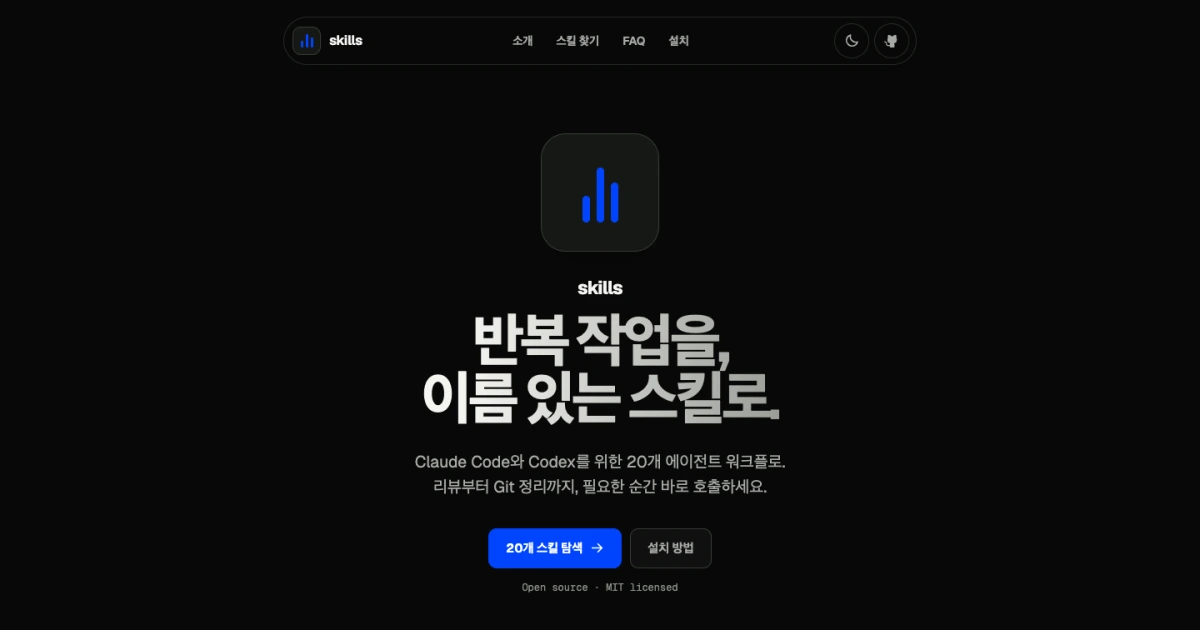
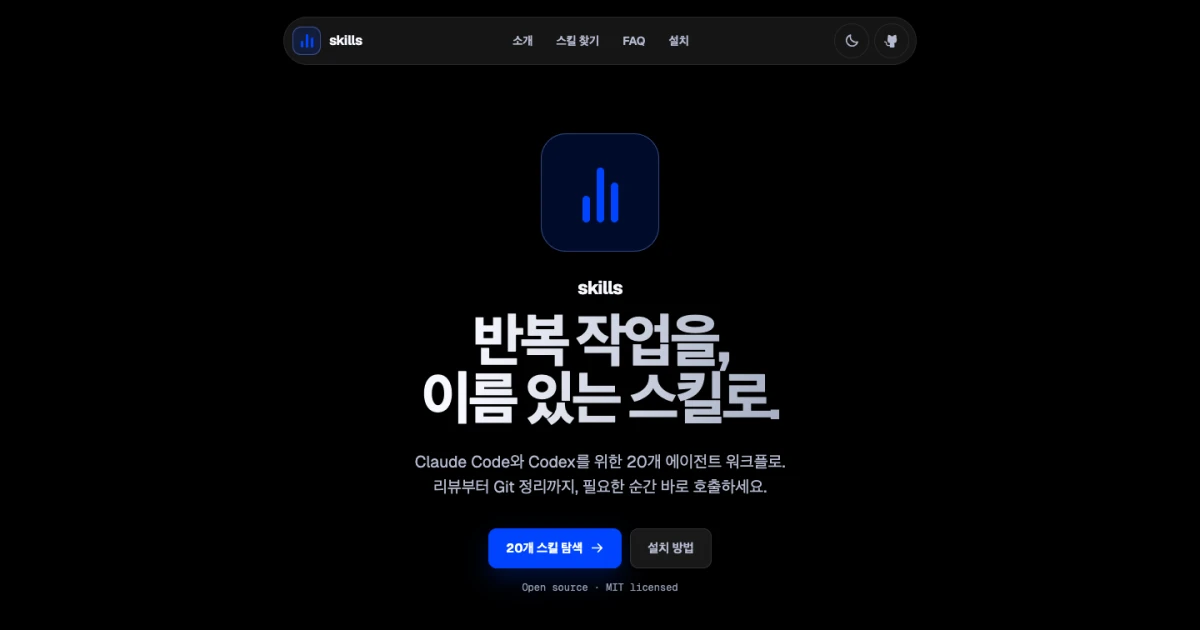
feat(site): rebalance palette and fill footer wordmark

diff --git a/website/src/styles.css b/website/src/styles.css
@@ -1,21 +1,24 @@
 :root {
   color-scheme: dark;
-  --canvas: #080908;
-  --surface: #101110;
-  --surface-raised: #161816;
-  --surface-soft: #0d0e0d;
-  --ink: #f4f5f1;
-  --ink-soft: #a7aaa4;
-  --ink-muted: #898d85;
-  --ink-fade: #9a9d96;
-  --line: #252824;
-  --line-strong: #373b35;
+  --canvas: #000000;
+  --surface: #181818;
+  --surface-raised: #1f1f1f;
+  --surface-soft: #131313;
+  --ink: #f7f8ff;
+  --ink-soft: #b4bad0;
+  --ink-muted: #8f97ad;
+  --ink-fade: #a6afc3;
+  --line: #272727;
+  --line-strong: #313131;
   --accent: #0044ff;
-  --accent-text: #6f93ff;
+  --accent-text: #85a2ff;
   --accent-ink: #ffffff;
+  --accent-soft: rgba(0, 68, 255, 0.16);
+  --accent-line: rgba(112, 143, 255, 0.42);
+  --accent-shadow: rgba(0, 68, 255, 0.24);
   --danger: #f0a39c;
-  --shadow: rgba(0, 0, 0, 0.28);
-  --header-bg: rgba(8, 9, 8, 0.86);
+  --shadow: rgba(0, 0, 0, 0.42);
+  --header-bg: rgba(24, 24, 24, 0.86);
   --max-width: 1200px;
   --ease-out: cubic-bezier(0.16, 1, 0.3, 1);
   font-family: "Geist Variable", ui-sans-serif, system-ui, -apple-system,
@@ -26,43 +29,49 @@
 
 :root[data-theme="light"] {
   color-scheme: light;
-  --canvas: #f7f6f3;
+  --canvas: #f5f7fc;
   --surface: #ffffff;
-  --surface-raised: #eeede8;
-  --surface-soft: #f1f0ec;
-  --ink: #171816;
-  --ink-soft: #5f625c;
-  --ink-muted: #686b65;
-  --ink-fade: #62655e;
-  --line: #deddd7;
-  --line-strong: #c9c8c1;
+  --surface-raised: #edf1fb;
+  --surface-soft: #f1f4fa;
+  --ink: #111827;
+  --ink-soft: #515b70;
+  --ink-muted: #626c82;
+  --ink-fade: #6b7280;
+  --line: #dce3ef;
+  --line-strong: #c4cedf;
   --accent: #0044ff;
   --accent-text: #0044ff;
   --accent-ink: #ffffff;
+  --accent-soft: #e8eeff;
+  --accent-line: #b8c8ff;
+  --accent-shadow: rgba(0, 68, 255, 0.18);
   --danger: #9f4038;
-  --shadow: rgba(30, 32, 29, 0.12);
-  --header-bg: rgba(247, 246, 243, 0.86);
+  --shadow: rgba(25, 47, 92, 0.12);
+  --header-bg: rgba(245, 247, 252, 0.88);
 }
 
 @media (prefers-color-scheme: light) {
   :root[data-theme="system"] {
     color-scheme: light;
-    --canvas: #f7f6f3;
+    --canvas: #f5f7fc;
     --surface: #ffffff;
-    --surface-raised: #eeede8;
-    --surface-soft: #f1f0ec;
-    --ink: #171816;
-    --ink-soft: #5f625c;
-    --ink-muted: #686b65;
-    --ink-fade: #62655e;
-    --line: #deddd7;
-    --line-strong: #c9c8c1;
+    --surface-raised: #edf1fb;
+    --surface-soft: #f1f4fa;
+    --ink: #111827;
+    --ink-soft: #515b70;
+    --ink-muted: #626c82;
+    --ink-fade: #6b7280;
+    --line: #dce3ef;
+    --line-strong: #c4cedf;
     --accent: #0044ff;
     --accent-text: #0044ff;
     --accent-ink: #ffffff;
+    --accent-soft: #e8eeff;
+    --accent-line: #b8c8ff;
+    --accent-shadow: rgba(0, 68, 255, 0.18);
     --danger: #9f4038;
-    --shadow: rgba(30, 32, 29, 0.12);
-    --header-bg: rgba(247, 246, 243, 0.86);
+    --shadow: rgba(25, 47, 92, 0.12);
+    --header-bg: rgba(245, 247, 252, 0.88);
   }
 }
 
@@ -201,9 +210,9 @@ code {
   width: 34px;
   height: 34px;
   padding: 8px;
-  border: 1px solid var(--line-strong);
+  border: 1px solid var(--accent-line);
   border-radius: 10px;
-  background: var(--surface-raised);
+  background: var(--accent-soft);
 }
 
 .brand-mark span {
@@ -268,8 +277,8 @@ code {
 }
 
 .site-header nav a[aria-current="true"] {
-  background: var(--surface-raised);
-  color: var(--ink);
+  background: var(--accent-soft);
+  color: var(--accent-text);
 }
 
 .header-actions {
@@ -360,12 +369,13 @@ code {
   font-size: 15px;
   font-weight: 690;
   transition: background 160ms var(--ease-out), color 160ms var(--ease-out), border-color 160ms var(--ease-out),
-    transform 160ms var(--ease-out);
+    box-shadow 160ms var(--ease-out), transform 160ms var(--ease-out);
 }
 
 .button--primary {
   border-color: var(--accent);
   background: var(--accent);
+  box-shadow: 0 12px 30px var(--accent-shadow);
   color: var(--accent-ink);
 }
 
@@ -500,8 +510,8 @@ code {
 }
 
 .product-sidebar li.is-active {
-  border-color: var(--line-strong);
-  background: var(--surface-raised);
+  border-color: var(--accent-line);
+  background: var(--accent-soft);
   color: var(--ink);
 }
 
@@ -567,7 +577,7 @@ code {
   gap: 12px;
   margin-top: 40px;
   padding: 13px 14px;
-  border: 1px solid var(--line-strong);
+  border: 1px solid var(--accent-line);
   border-radius: 8px;
   background: var(--surface-soft);
 }
@@ -672,8 +682,8 @@ code {
   width: 42px;
   height: 42px;
   border-radius: 9px;
-  background: var(--ink);
-  color: var(--canvas);
+  background: var(--accent-soft);
+  color: var(--accent-text);
 }
 
 .outcome h3 {
@@ -882,8 +892,8 @@ code {
 }
 
 .category-card.is-active {
-  border-color: var(--line-strong);
-  background: var(--surface-raised);
+  border-color: var(--accent-line);
+  background: var(--accent-soft);
 }
 
 .category-card.is-active .category-card__head code {
@@ -921,6 +931,7 @@ code {
 
 .search-field:focus-within {
   border-color: var(--accent);
+  box-shadow: 0 0 0 3px var(--accent-soft);
 }
 
 .search-field input {
@@ -982,9 +993,9 @@ code {
 }
 
 .filters button.is-active {
-  border-color: var(--line-strong);
-  background: var(--surface-soft);
-  color: var(--ink);
+  border-color: var(--accent-line);
+  background: var(--accent-soft);
+  color: var(--accent-text);
 }
 
 .filters button.is-active span {
@@ -1402,6 +1413,10 @@ code {
   color: var(--accent);
 }
 
+.faq-item[open] {
+  border-color: var(--accent-line);
+}
+
 .faq-item > p {
   max-width: 620px;
   margin: 0;
@@ -1458,7 +1473,7 @@ code {
   gap: 12px;
   margin-top: 24px;
   padding: 10px 10px 10px 14px;
-  border: 1px solid var(--line);
+  border: 1px solid var(--accent-line);
   border-radius: 8px;
   background: var(--canvas);
 }
@@ -1524,7 +1539,7 @@ code {
   position: relative;
   overflow: hidden;
   padding: 32px max(24px, calc((100vw - var(--max-width)) / 2)) 0;
-  border-top: 1px solid var(--line);
+  border-top: 1px solid var(--accent-line);
   background: var(--canvas);
 }
 
@@ -1558,14 +1573,15 @@ code {
 
 .site-footer__word {
   display: block;
-  margin: 60px 0 -0.1em;
-  color: transparent;
+  height: 0.72em;
+  margin: 64px 0 0;
+  overflow: hidden;
+  color: var(--accent);
   font-size: clamp(9rem, 24vw, 22rem);
   font-weight: 730;
   letter-spacing: -0.09em;
-  line-height: 1;
+  line-height: 0.84;
   text-align: center;
-  -webkit-text-stroke: 1px var(--line-strong);
   user-select: none;
 }
 
@@ -1588,6 +1604,7 @@ code {
   .button--primary:hover {
     border-color: var(--accent);
     background: var(--accent);
+    box-shadow: 0 16px 38px var(--accent-shadow);
     color: var(--accent-ink);
   }
 
@@ -1611,7 +1628,7 @@ code {
   }
 
   .category-card:hover {
-    border-color: var(--line-strong);
+    border-color: var(--accent-line);
     color: var(--ink-soft);
   }
 

diff --git a/website/public/404.html b/website/public/404.html
@@ -9,23 +9,21 @@
     <style>
       :root {
         color-scheme: dark;
-        --canvas: #080908;
-        --ink: #f4f5f1;
-        --ink-soft: #a7aaa4;
-        --ink-muted: #898d85;
-        --line-strong: #373b35;
+        --canvas: #000000;
+        --ink: #f7f8ff;
+        --ink-soft: #b4bad0;
+        --ink-muted: #8f97ad;
         --accent: #0044ff;
-        --accent-text: #6f93ff;
+        --accent-text: #85a2ff;
         --accent-ink: #ffffff;
       }
       @media (prefers-color-scheme: light) {
         :root {
           color-scheme: light;
-          --canvas: #f7f6f3;
-          --ink: #171816;
-          --ink-soft: #5f625c;
-          --ink-muted: #686b65;
-          --line-strong: #c9c8c1;
+          --canvas: #f5f7fc;
+          --ink: #111827;
+          --ink-soft: #515b70;
+          --ink-muted: #626c82;
           --accent: #0044ff;
           --accent-text: #0044ff;
           --accent-ink: #ffffff;
@@ -100,14 +98,15 @@
         outline-offset: 3px;
       }
       .word {
-        margin: 0 0 -0.1em;
-        color: transparent;
+        height: 0.72em;
+        margin: 0;
+        overflow: hidden;
+        color: var(--accent);
         font-size: clamp(9rem, 24vw, 22rem);
         font-weight: 730;
         letter-spacing: -0.06em;
-        line-height: 1;
+        line-height: 0.84;
         text-align: center;
-        -webkit-text-stroke: 1px var(--line-strong);
         user-select: none;
       }
     </style>

diff --git a/website/index.html b/website/index.html
@@ -7,8 +7,7 @@
       name="description"
       content="chann/skills의 에이전트 워크플로를 찾고 설치하고 사용하는 방법을 안내합니다."
     />
-    <meta name="theme-color" media="(prefers-color-scheme: dark)" content="#080908" />
-    <meta name="theme-color" media="(prefers-color-scheme: light)" content="#f7f6f3" />
+    <meta name="theme-color" content="#000000" />
     <link rel="canonical" href="https://chann.github.io/skills/" />
     <meta property="og:type" content="website" />
     <meta property="og:locale" content="ko_KR" />

diff --git a/website/src/App.tsx b/website/src/App.tsx
@@ -539,7 +539,7 @@ export function App() {
               key={index}
               initial={reduceMotion ? false : { y: "0.42em", opacity: 0 }}
               whileInView={{ y: 0, opacity: 1 }}
-              viewport={{ once: true, amount: 0.4 }}
+              viewport={{ once: true, amount: 0.2 }}
               transition={{
                 duration: reduceMotion ? 0 : 0.8,
                 delay: reduceMotion ? 0 : index * 0.055,

diff --git a/website/src/components/ThemeToggle.tsx b/website/src/components/ThemeToggle.tsx
@@ -25,7 +25,7 @@ export function ThemeToggle() {
       const isDark = theme === "dark" || (theme === "system" && media.matches);
       document
         .querySelector('meta[name="theme-color"]')
-        ?.setAttribute("content", isDark ? "#080908" : "#f7f6f3");
+        ?.setAttribute("content", isDark ? "#000000" : "#f5f7fc");
     };
 
     syncThemeColor();
